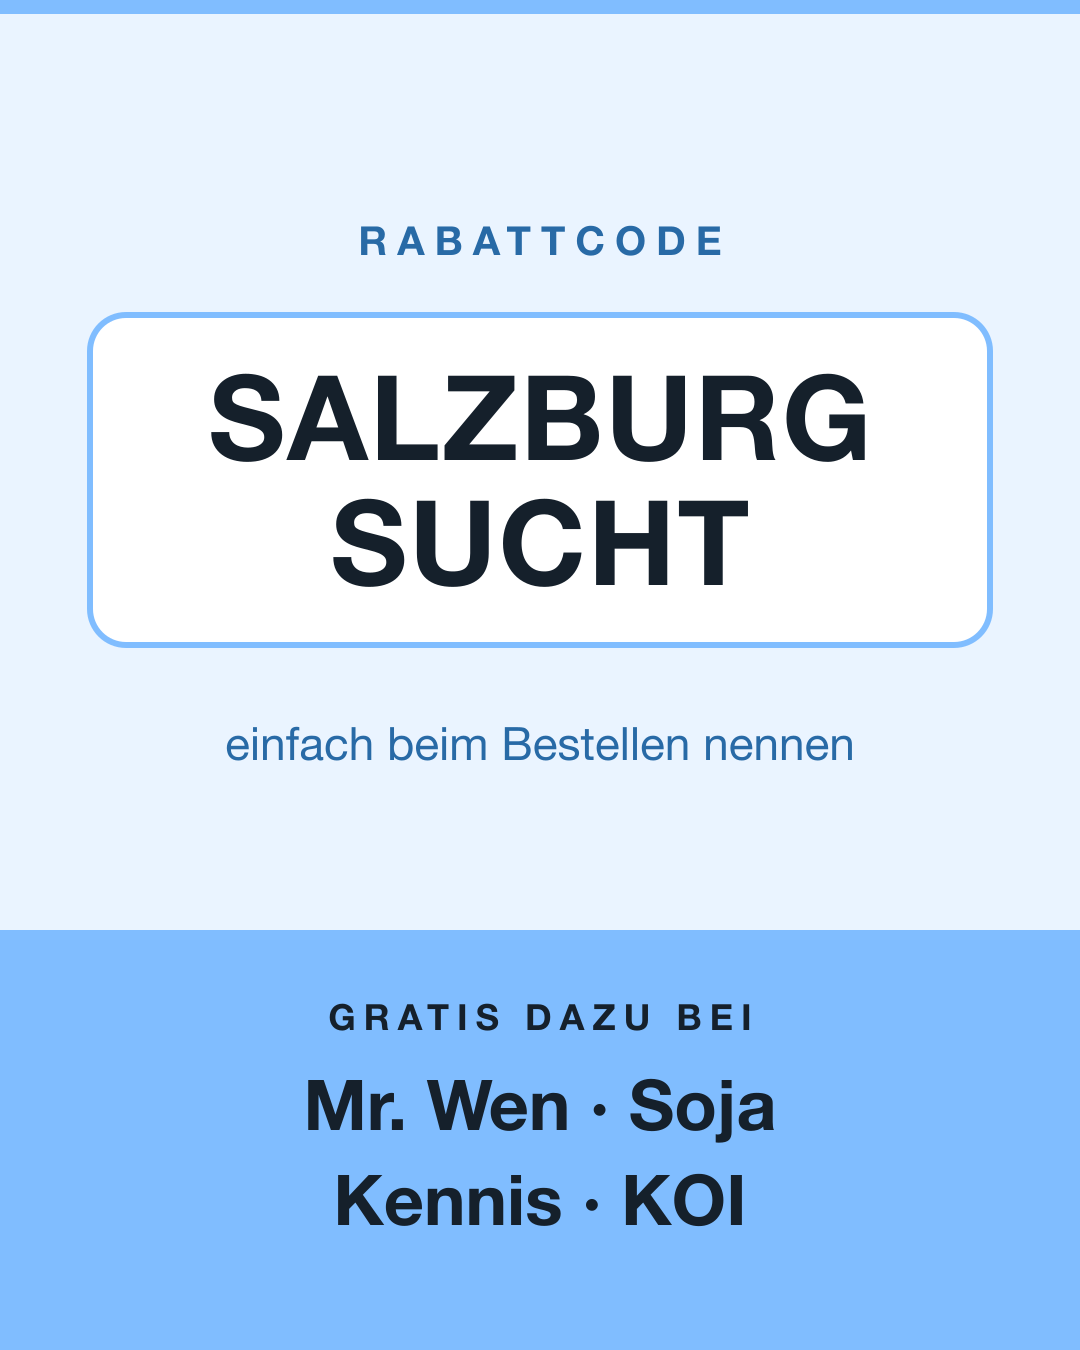
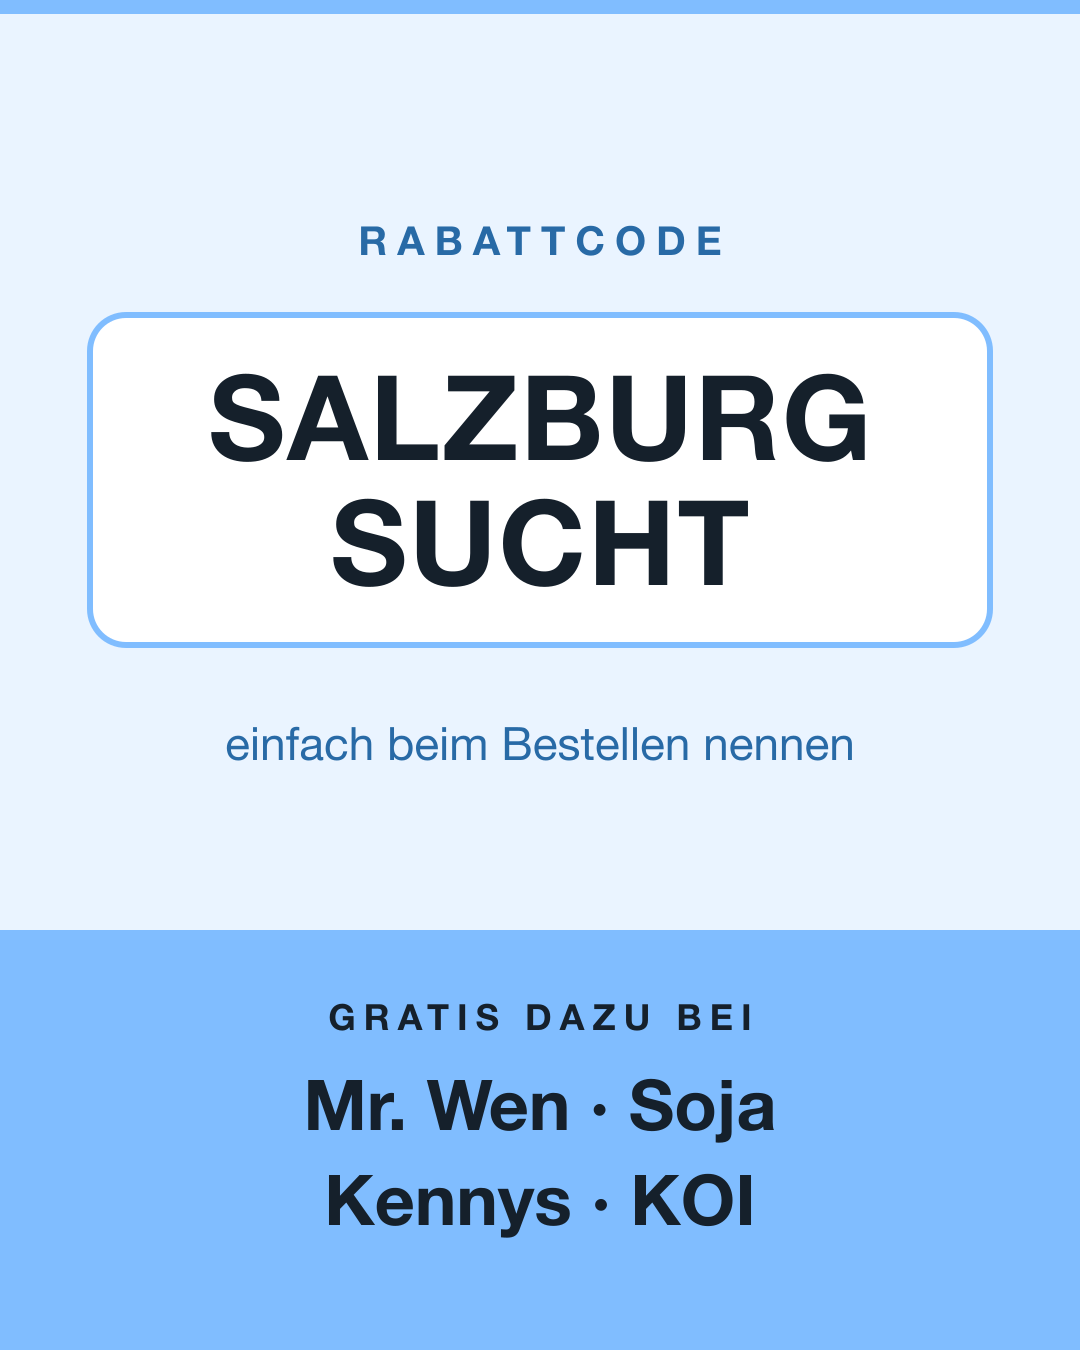
Schreibweise: Kennys statt Kennis, mit Weiterleitung der alten Adresse
Der Betrieb heisst Kennys. Beitrag, Uebersicht, Startseiten-Karte und die
Grafik tragen jetzt die richtige Schreibweise.

Der Beitrag stand zehn Tage unter /blog/kennis-salzburg-smoothie in der
Sitemap. Die alte Adresse leitet deshalb dauerhaft auf die neue weiter,
statt ins Leere zu laufen.

Changed region(s): [[0.3056, 0.8711, 0.7028, 0.9333]]

diff --git a/src/data/blog.ts b/src/data/blog.ts
@@ -104,7 +104,7 @@ export const blogPosts: BlogPost[] = [
     slug: "code-salzburg-sucht-vorteile",
     titel: "Das bekommt ihr mit dem Code SALZBURG SUCHT",
     beschreibung:
-      "Mr. Wen, Soja, Kennis und KOI: Was euch der Code SALZBURG SUCHT in Salzburg bringt — Frühlingsrollen, Edamame, Smoothie und ein Getränk ohne Karte.",
+      "Mr. Wen, Soja, Kennys und KOI: Was euch der Code SALZBURG SUCHT in Salzburg bringt — Frühlingsrollen, Edamame, Smoothie und ein Getränk ohne Karte.",
     kategorie: "Gastro",
     publishedAt: "2026-10-30",
     auszug:
@@ -131,10 +131,10 @@ export const blogPosts: BlogPost[] = [
         ],
       },
       {
-        titel: "Kennis: mittlerer Smoothie",
+        titel: "Kennys: mittlerer Smoothie",
         absaetze: [
           "Ein mittlerer Smoothie gratis zu eurer Bestellung — auch hier genügt der Satz an der Theke.",
-          "Verlost werden bei Kennis zwei Gutscheine über je 25 €, nicht einer über fünfzig. Teilnahme: Kennis und Salzburgsucht folgen.",
+          "Verlost werden bei Kennys zwei Gutscheine über je 25 €, nicht einer über fünfzig. Teilnahme: Kennys und Salzburgsucht folgen.",
         ],
       },
       {
@@ -247,15 +247,15 @@ export const blogPosts: BlogPost[] = [
     ],
   },
   {
-    /* Kennis: Aktion und Gewinnspiel von Emre (23.10.2026). Code
+    /* Kennys: Aktion und Gewinnspiel von Emre (23.10.2026). Code
        SALZBURG SUCHT -> ein mittlerer Smoothie gratis zur Bestellung;
        verlost werden ZWEI Gutscheine ueber je 25 EUR (nicht einer ueber 50)
-       unter allen, die Kennis und Salzburgsucht folgen. Eine Adresse liegt
+       unter allen, die Kennys und Salzburgsucht folgen. Eine Adresse liegt
        uns nicht vor, deshalb steht hier keine. */
-    slug: "kennis-salzburg-smoothie",
-    titel: "Kennis in Salzburg: gratis Smoothie mit dem Code",
+    slug: "kennys-salzburg-smoothie",
+    titel: "Kennys in Salzburg: gratis Smoothie mit dem Code",
     beschreibung:
-      "Mit dem Code SALZBURG SUCHT gibt es bei Kennis einen mittleren Smoothie gratis zur Bestellung. Dazu verlosen wir zweimal 25 €.",
+      "Mit dem Code SALZBURG SUCHT gibt es bei Kennys einen mittleren Smoothie gratis zur Bestellung. Dazu verlosen wir zweimal 25 €.",
     kategorie: "Gastro",
     publishedAt: "2026-10-23",
     auszug:
@@ -264,7 +264,7 @@ export const blogPosts: BlogPost[] = [
       {
         titel: null,
         absaetze: [
-          "Kennis ist der nächste Salzburger Betrieb, mit dem wir eine Aktion für die Community fahren. Und die ist, zugegeben, schwer auszuschlagen.",
+          "Kennys ist der nächste Salzburger Betrieb, mit dem wir eine Aktion für die Community fahren. Und die ist, zugegeben, schwer auszuschlagen.",
         ],
       },
       {
@@ -277,14 +277,14 @@ export const blogPosts: BlogPost[] = [
       {
         titel: "Zweimal 25 € zu gewinnen",
         absaetze: [
-          "Zusätzlich verlosen wir gemeinsam mit Kennis zwei Gutscheine über je 25 €. Zwei statt einem — damit die Chance doppelt so hoch ist.",
-          "Teilnehmen könnt ihr, indem ihr Kennis und Salzburgsucht folgt. Die Verlosung läuft über unsere Kanäle; dort steht auch, bis wann.",
+          "Zusätzlich verlosen wir gemeinsam mit Kennys zwei Gutscheine über je 25 €. Zwei statt einem — damit die Chance doppelt so hoch ist.",
+          "Teilnehmen könnt ihr, indem ihr Kennys und Salzburgsucht folgt. Die Verlosung läuft über unsere Kanäle; dort steht auch, bis wann.",
         ],
       },
       {
         titel: "Warum immer derselbe Code",
         absaetze: [
-          "SALZBURG SUCHT ist bei allen unseren Partnerbetrieben derselbe Satz — bei Kennis, bei Soja, bei KOI, bei Mr. Wen. Ihr müsst euch also nichts merken außer diesen zwei Wörtern, und die kennt ihr schon.",
+          "SALZBURG SUCHT ist bei allen unseren Partnerbetrieben derselbe Satz — bei Kennys, bei Soja, bei KOI, bei Mr. Wen. Ihr müsst euch also nichts merken außer diesen zwei Wörtern, und die kennt ihr schon.",
           "Was ihr dafür bekommt, ist je Betrieb verschieden. Was gerade läuft, steht hier im Blog und auf der Startseite.",
         ],
       },

diff --git a/src/data/discovery.ts b/src/data/discovery.ts
@@ -125,9 +125,9 @@ export const contentKarten: ContentKarte[] = [
     id: "aktion-code-salzburg-sucht",
     kategorie: "Aktion",
     titel: "Gratis dazu mit dem Code",
-    text: "Frühlingsrollen bei Mr. Wen, Edamame bei Soja, ein mittlerer Smoothie bei Kennis und bei KOI ein Getränk, das nicht auf der Karte steht — den Code einfach beim Bestellen nennen.",
+    text: "Frühlingsrollen bei Mr. Wen, Edamame bei Soja, ein mittlerer Smoothie bei Kennys und bei KOI ein Getränk, das nicht auf der Karte steht — den Code einfach beim Bestellen nennen.",
     bild: "/images/code-salzburg-sucht.png",
-    alt: "Grafik in Hellblau mit dem Rabattcode SALZBURG SUCHT und den Namen Mr. Wen, Soja, Kennis und KOI",
+    alt: "Grafik in Hellblau mit dem Rabattcode SALZBURG SUCHT und den Namen Mr. Wen, Soja, Kennys und KOI",
     code: "SALZBURG SUCHT",
     video: null,
     url: null,

diff --git a/next.config.ts b/next.config.ts
@@ -41,6 +41,15 @@ const nextConfig: NextConfig = {
         destination: "/blog/zwei-doener-zwei-euro-novaluna",
         permanent: true,
       },
+      {
+        /* 23.10. mit "Kennis" veroeffentlicht, am 03.11. auf die richtige
+           Schreibweise "Kennys" korrigiert. Die alte Adresse stand zehn Tage
+           in der Sitemap — ohne Weiterleitung waere jeder Link darauf
+           (und jeder Treffer bei Google) ins Leere gelaufen. */
+        source: "/blog/kennis-salzburg-smoothie",
+        destination: "/blog/kennys-salzburg-smoothie",
+        permanent: true,
+      },
     ];
   },
 };
